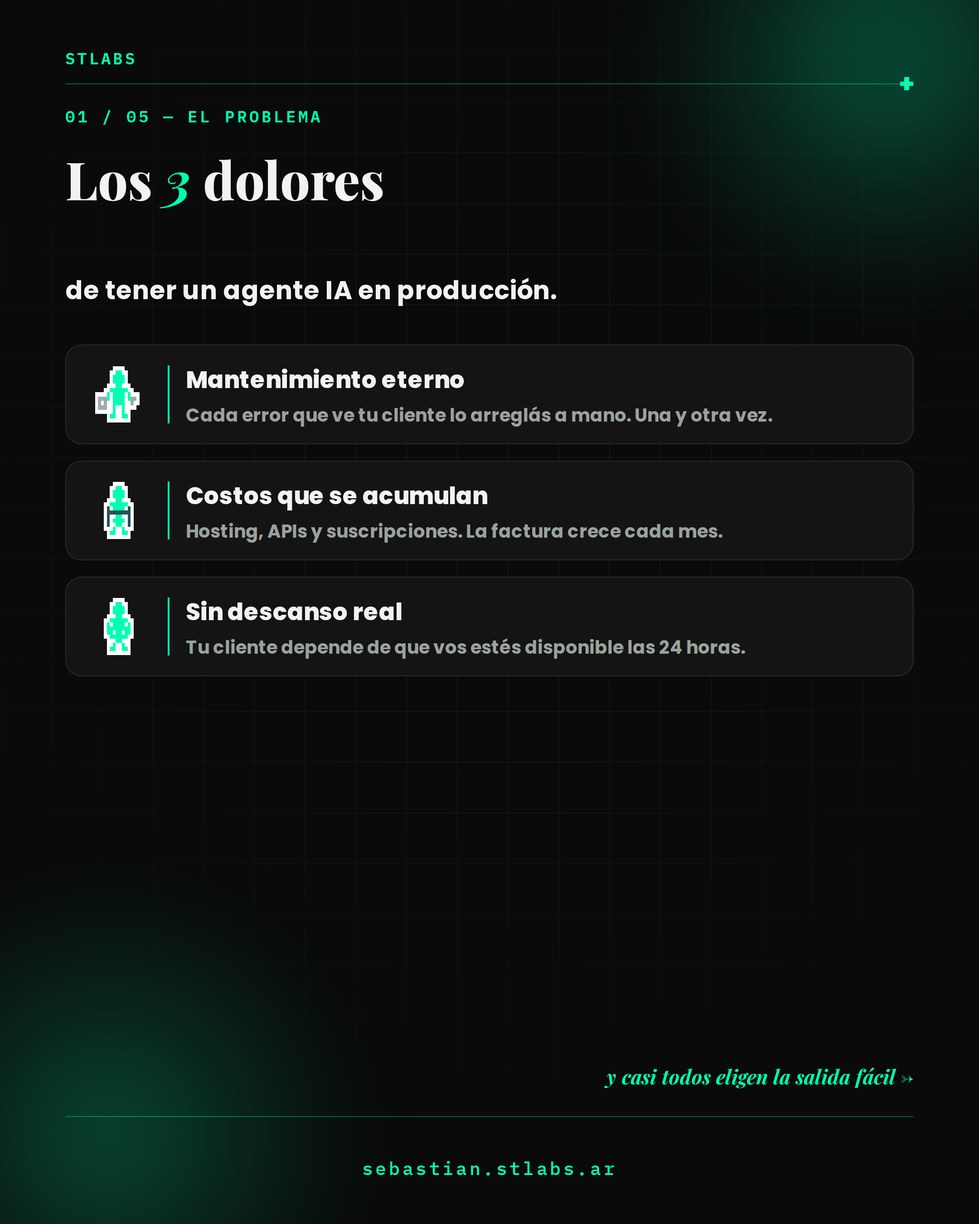
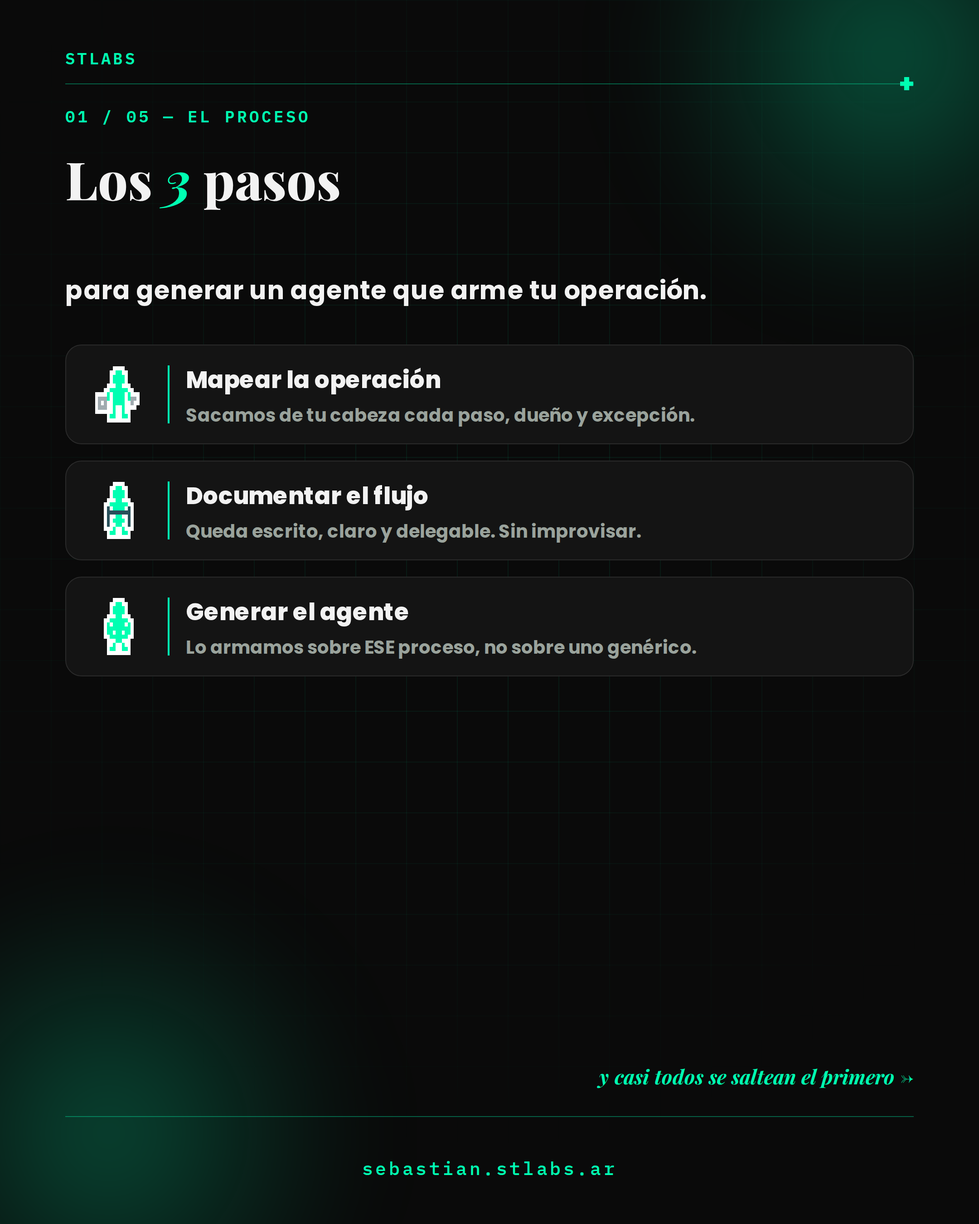
Reescribir copy: proceso de generación y chat nuevo
Los textos ya no repiten la publicación del agente (API, 300 USD, Cloudflare). Ahora cuentan mapear, documentar y generar, con 12 pasos y 9 de 10. El chat de la quinta slide pide armar el agente de seguimiento comercial. Keyword PROCESO.

diff --git a/resultados/2026-08-18-nueva-forma-agentes/carrusel.html b/resultados/2026-08-18-nueva-forma-agentes/carrusel.html
@@ -1,6 +1,6 @@
 <!DOCTYPE html>
 <html lang="es"><head><meta charset="UTF-8">
-<title>La nueva forma de crear agentes IA — STLabs</title>
+<title>Así se genera un agente a medida — STLabs</title>
 <style>
 @font-face { font-family:'Playfair'; src:url('file:///tmp/stlabs-fonts/PlayfairDisplay.ttf') format('truetype'); font-weight:400 900; font-style:normal; }
 @font-face { font-family:'Playfair'; src:url('file:///tmp/stlabs-fonts/PlayfairDisplay-Italic.ttf') format('truetype'); font-weight:400 900; font-style:italic; }
@@ -239,4 +239,4 @@ html, body { background:#000; }
 }
 .send em { font-style:normal; color:#00FFB2; }
 </style></head>
-<body><div class="sheet"><section class="slide" data-id="01"><div class="tex"></div><div class="glow glow-tr"></div><div class="glow glow-bl"></div><div class="hline top"></div><div class="brand">STLabs</div><div class="kicker">01 / 05</div><div class="pill"><i></i>Nadie lo cuenta</div><div class="firma">sebastian.stlabs.ar</div><div class="hero"></div><div class="hero-fade"></div><h1 class="display"><em>La nueva</em><br>forma de crear<br><em>agentes IA.</em></h1><div class="clip dude"><div class="corners"><span class="tl"></span><span class="tr"></span><span class="bl"></span><span class="br"></span></div><img src="file:///workspace/builds/2026-08-18-nueva-forma-agentes/assets/pixel-dude.png" alt=""></div><div class="clip cf"><img class="claude" src="file:///workspace/builds/2026-08-18-nueva-forma-agentes/assets/claude.png" width="96" height="96" alt="" style="width:96px;height:96px;object-fit:contain;"></div><div class="cta-side">esto va a cambiar todo →</div></section><section class="slide" data-id="02"><div class="tex"></div><div class="glow glow-tr"></div><div class="glow glow-bl"></div><div class="hline top"></div><div class="hline bot"></div><div class="brand">STLabs</div><div class="plus">+</div><div class="kicker">01 / 05 — El problema</div><div class="firma">sebastian.stlabs.ar</div><h1 class="h2">Los <em>3</em> dolores</h1><p class="sub">de tener un agente IA en producción.</p><div class="cards"><div class="card"><img src="file:///workspace/builds/2026-08-18-nueva-forma-agentes/assets/pixel-wrench.png" alt=""><div class="div"></div><div><h3>Mantenimiento eterno</h3><p>Cada error que ve tu cliente lo arreglás a mano. Una y otra vez.</p></div></div><div class="card"><img src="file:///workspace/builds/2026-08-18-nueva-forma-agentes/assets/pixel-cost.png" alt=""><div class="div"></div><div><h3>Costos que se acumulan</h3><p>Hosting, APIs y suscripciones. La factura crece cada mes.</p></div></div><div class="card"><img src="file:///workspace/builds/2026-08-18-nueva-forma-agentes/assets/pixel-bell.png" alt=""><div class="div"></div><div><h3>Sin descanso real</h3><p>Tu cliente depende de que vos estés disponible las 24 horas.</p></div></div></div><div class="cta-side">y casi todos eligen la salida fácil →</div></section><section class="slide" data-id="03"><div class="tex"></div><div class="glow glow-tr"></div><div class="glow glow-bl"></div><div class="hline top"></div><div class="hline bot"></div><div class="brand">STLabs</div><div class="plus">+</div><div class="kicker">02 / 05 — La salida fácil</div><div class="firma">sebastian.stlabs.ar</div><h1 class="h2">La salida <em>fácil</em><br>que todos toman</h1><p class="sub">que el 80% toma… y les sale <b style="color:#00FFB2">100 veces más cara.</b></p><div class="bubble">Uso la API de Claude directo, así me ahorro las plataformas</div><div class="tag80"><i></i>el 80%</div><div class="metric"><div class="lab">Anthropic API · 1 agente · 30 días</div><div class="num">300<span>USD</span></div><div class="foot">y eso es UN solo agente</div></div><div class="cta-side">pero hay una forma 100 veces más barata →</div></section><section class="slide" data-id="04"><div class="tex"></div><div class="glow glow-tr"></div><div class="glow glow-bl"></div><div class="hline top"></div><div class="hline bot"></div><div class="brand">STLabs</div><div class="plus">+</div><div class="kicker">03 / 05 — El secreto</div><div class="firma">sebastian.stlabs.ar</div><h1 class="h2">El <em>secreto</em></h1><p class="sub">Claude Code lo construye. Cloudflare lo aloja.</p><div class="eq"><div class="eq-item"><div class="eq-box"><img class="claude" src="file:///workspace/builds/2026-08-18-nueva-forma-agentes/assets/claude.png" width="96" height="96" alt="" style="width:96px;height:96px;object-fit:contain;"></div><strong>Claude Code</strong><em>el ingeniero</em></div><div class="plus-lg">+</div><div class="eq-item"><div class="eq-box"><svg viewBox="0 0 64 40" width="88" height="56"><path fill="#F38020" d="M52 24c1.8-6.2-2.2-12-9-12-1.2 0-2.4.2-3.5.6C38 8.2 33.4 5 28 5c-7.4 0-13.4 5.6-14 12.8C8.6 18.6 4 23.8 4 30c0 .7 0 1.4.1 2h50.6c.7-1.2 1.3-2.6 1.3-4.2 0-1.4-.3-2.6-.8-3.8z"/></svg></div><strong>Cloudflare</strong><em>la casa 24/7</em></div></div><div class="result">= tu agente listo</div><div class="cta-side">seguime para más métodos así →</div></section><section class="slide" data-id="05"><div class="tex"></div><div class="glow glow-tr"></div><div class="glow glow-bl"></div><div class="hline top"></div><div class="hline bot"></div><div class="brand">STLabs</div><div class="plus">+</div><div class="kicker">05 / 05 — Lo mejor</div><div class="firma">sebastian.stlabs.ar</div><h1 class="h2"><em>Lo mejor</em> del método</h1><p class="sub">El cliente reporta un error de madrugada → Claude lo arregla <b style="color:#00FFB2">mientras dormís.</b></p><div class="phone"><div class="ph-head"><img class="claude" src="file:///workspace/builds/2026-08-18-nueva-forma-agentes/assets/claude.png" width="32" height="32" alt="" style="width:32px;height:32px;object-fit:contain;"><div class="nm">Claude</div><div class="hr">03:00</div></div><div class="ph-body"><div class="row me"><div><div class="bubble-u">Se cayó el agente del cliente</div><div class="ts" style="text-align:right">03:00</div></div><img class="av" src="file:///workspace/builds/2026-08-18-nueva-forma-agentes/assets/sebas-avatar.png" alt=""></div><div class="row"><img class="claude" src="file:///workspace/builds/2026-08-18-nueva-forma-agentes/assets/claude.png" width="36" height="36" alt="" style="width:36px;height:36px;object-fit:contain;"><div><div class="bubble-a">Listo, ya lo arreglé. Seguí durmiendo.</div><div class="ts">03:02</div></div></div></div></div><div class="cta-side">seguime para más métodos así →</div></section><section class="slide" data-id="06"><div class="tex"></div><div class="glow glow-tr"></div><div class="glow glow-bl"></div><div class="hline top"></div><div class="hline bot"></div><div class="brand">STLabs</div><div class="kicker"></div><div class="pill"><i></i>A medida</div><div class="firma">sebastian.stlabs.ar</div><h1 class="ask">¿Querés que te arme<br>este <em>proceso</em> a medida?</h1><p class="pre">Diseño el flujo, lo documento y te genero un agente personalizado para tu operación.</p><div class="kwbox"><span>AGENTE</span></div><div class="bottom-row"><div class="avatar-wrap"><div class="corners"><span class="tl"></span><span class="tr"></span><span class="bl"></span><span class="br"></span></div><img src="file:///workspace/builds/2026-08-18-nueva-forma-agentes/assets/sebas-avatar.png" alt=""></div><div class="send">Comentá <em>AGENTE</em> y arrancamos tu generación personalizada <em>→</em></div></div></section></div></body></html>
+<body><div class="sheet"><section class="slide" data-id="01"><div class="tex"></div><div class="glow glow-tr"></div><div class="glow glow-bl"></div><div class="hline top"></div><div class="brand">STLabs</div><div class="kicker">01 / 05</div><div class="pill"><i></i>A medida</div><div class="firma">sebastian.stlabs.ar</div><div class="hero"></div><div class="hero-fade"></div><h1 class="display"><em>Así se genera</em><br>un agente<br><em>a medida.</em></h1><div class="clip dude"><div class="corners"><span class="tl"></span><span class="tr"></span><span class="bl"></span><span class="br"></span></div><img src="file:///workspace/builds/2026-08-18-nueva-forma-agentes/assets/pixel-dude.png" alt=""></div><div class="clip cf"><img class="claude" src="file:///workspace/builds/2026-08-18-nueva-forma-agentes/assets/claude.png" width="96" height="96" alt="" style="width:96px;height:96px;object-fit:contain;"></div><div class="cta-side">primero el proceso →</div></section><section class="slide" data-id="02"><div class="tex"></div><div class="glow glow-tr"></div><div class="glow glow-bl"></div><div class="hline top"></div><div class="hline bot"></div><div class="brand">STLabs</div><div class="plus">+</div><div class="kicker">01 / 05 — El proceso</div><div class="firma">sebastian.stlabs.ar</div><h1 class="h2">Los <em>3</em> pasos</h1><p class="sub">para generar un agente que arme tu operación.</p><div class="cards"><div class="card"><img src="file:///workspace/builds/2026-08-18-nueva-forma-agentes/assets/pixel-wrench.png" alt=""><div class="div"></div><div><h3>Mapear la operación</h3><p>Sacamos de tu cabeza cada paso, dueño y excepción.</p></div></div><div class="card"><img src="file:///workspace/builds/2026-08-18-nueva-forma-agentes/assets/pixel-cost.png" alt=""><div class="div"></div><div><h3>Documentar el flujo</h3><p>Queda escrito, claro y delegable. Sin improvisar.</p></div></div><div class="card"><img src="file:///workspace/builds/2026-08-18-nueva-forma-agentes/assets/pixel-bell.png" alt=""><div class="div"></div><div><h3>Generar el agente</h3><p>Lo armamos sobre ESE proceso, no sobre uno genérico.</p></div></div></div><div class="cta-side">y casi todos se saltean el primero →</div></section><section class="slide" data-id="03"><div class="tex"></div><div class="glow glow-tr"></div><div class="glow glow-bl"></div><div class="hline top"></div><div class="hline bot"></div><div class="brand">STLabs</div><div class="plus">+</div><div class="kicker">02 / 05 — Lo que se saltea</div><div class="firma">sebastian.stlabs.ar</div><h1 class="h2">Lo que casi<br><em>nadie</em> hace</h1><p class="sub">arrancan el agente sin mapa… y después <b style="color:#00FFB2">no escala.</b></p><div class="bubble">Poné un agente y que resuelva. El proceso lo vemos después.</div><div class="tag80"><i></i>9 de 10</div><div class="metric"><div class="lab">Primera sesión de mapeo · 1 operación</div><div class="num">12<span>pasos</span></div><div class="foot">y de ese mapa nace el agente</div></div><div class="cta-side">el método correcto es al revés →</div></section><section class="slide" data-id="04"><div class="tex"></div><div class="glow glow-tr"></div><div class="glow glow-bl"></div><div class="hline top"></div><div class="hline bot"></div><div class="brand">STLabs</div><div class="plus">+</div><div class="kicker">03 / 05 — El método</div><div class="firma">sebastian.stlabs.ar</div><h1 class="h2">El <em>método</em></h1><p class="sub">Primero el mapa. Después se genera el agente.</p><div class="eq"><div class="eq-item"><div class="eq-box"><svg viewBox="0 0 64 64" width="88" height="88"><rect x="8" y="8" width="48" height="14" rx="4" fill="none" stroke="#00FFB2" stroke-width="3"/><rect x="8" y="28" width="30" height="14" rx="4" fill="none" stroke="#00FFB2" stroke-width="3"/><rect x="8" y="48" width="40" height="14" rx="4" fill="none" stroke="#00FFB2" stroke-width="3"/><path d="M32 22v6M23 42v6" fill="none" stroke="#00FFB2" stroke-width="3"/></svg></div><strong>El mapa</strong><em>tu operación</em></div><div class="plus-lg">+</div><div class="eq-item"><div class="eq-box"><img class="claude" src="file:///workspace/builds/2026-08-18-nueva-forma-agentes/assets/claude.png" width="96" height="96" alt="" style="width:96px;height:96px;object-fit:contain;"></div><strong>Claude</strong><em>lo genera</em></div></div><div class="result">= tu agente a medida</div><div class="cta-side">así se ve cuando lo pedís →</div></section><section class="slide" data-id="05"><div class="tex"></div><div class="glow glow-tr"></div><div class="glow glow-bl"></div><div class="hline top"></div><div class="hline bot"></div><div class="brand">STLabs</div><div class="plus">+</div><div class="kicker">04 / 05 — En vivo</div><div class="firma">sebastian.stlabs.ar</div><h1 class="h2"><em>Así</em> se genera</h1><p class="sub">Pedís el proceso. El agente queda mapeado y <b style="color:#00FFB2">listo para ejecutar.</b></p><div class="phone"><div class="ph-head"><img class="claude" src="file:///workspace/builds/2026-08-18-nueva-forma-agentes/assets/claude.png" width="32" height="32" alt="" style="width:32px;height:32px;object-fit:contain;"><div class="nm">Claude</div><div class="hr">11:20</div></div><div class="ph-body"><div class="row me"><div><div class="bubble-u">Armá el agente con el seguimiento comercial.</div><div class="ts" style="text-align:right">11:20</div></div><img class="av" src="file:///workspace/builds/2026-08-18-nueva-forma-agentes/assets/sebas-avatar.png" alt=""></div><div class="row"><img class="claude" src="file:///workspace/builds/2026-08-18-nueva-forma-agentes/assets/claude.png" width="36" height="36" alt="" style="width:36px;height:36px;object-fit:contain;"><div><div class="bubble-a">Listo. 12 pasos documentados y el agente ya corre el flujo.</div><div class="ts">11:24</div></div></div></div></div><div class="cta-side">esto lo hacemos sobre tu operación →</div></section><section class="slide" data-id="06"><div class="tex"></div><div class="glow glow-tr"></div><div class="glow glow-bl"></div><div class="hline top"></div><div class="hline bot"></div><div class="brand">STLabs</div><div class="kicker"></div><div class="pill"><i></i>A medida</div><div class="firma">sebastian.stlabs.ar</div><h1 class="ask">¿Querés que te genere<br>el <em>agente</em> a medida?</h1><p class="pre">Mapeo tu operación, documento el flujo y te dejo el agente personalizado listo.</p><div class="kwbox"><span>PROCESO</span></div><div class="bottom-row"><div class="avatar-wrap"><div class="corners"><span class="tl"></span><span class="tr"></span><span class="bl"></span><span class="br"></span></div><img src="file:///workspace/builds/2026-08-18-nueva-forma-agentes/assets/sebas-avatar.png" alt=""></div><div class="send">Comentá <em>PROCESO</em> y arrancamos la generación <em>→</em></div></div></section></div></body></html>

diff --git a/builds/2026-08-18-nueva-forma-agentes/generate.py b/builds/2026-08-18-nueva-forma-agentes/generate.py
@@ -283,16 +283,15 @@ def chrome(kicker: str, pill: str | None = None, plus: bool = True, bot_line: bo
     )
 
 
-def cf_icon() -> str:
+def mapa_icon() -> str:
     return (
-        '<svg viewBox="0 0 64 40" width="88" height="56">'
-        '<path fill="#F38020" d="M52 24c1.8-6.2-2.2-12-9-12-1.2 0-2.4.2-3.5.6C38 8.2 33.4 5 28 5c-7.4 0-13.4 5.6-14 12.8C8.6 18.6 4 23.8 4 30c0 .7 0 1.4.1 2h50.6c.7-1.2 1.3-2.6 1.3-4.2 0-1.4-.3-2.6-.8-3.8z"/>'
+        '<svg viewBox="0 0 64 64" width="88" height="88">'
+        '<rect x="8" y="8" width="48" height="14" rx="4" fill="none" stroke="#00FFB2" stroke-width="3"/>'
+        '<rect x="8" y="28" width="30" height="14" rx="4" fill="none" stroke="#00FFB2" stroke-width="3"/>'
+        '<rect x="8" y="48" width="40" height="14" rx="4" fill="none" stroke="#00FFB2" stroke-width="3"/>'
+        '<path d="M32 22v6M23 42v6" fill="none" stroke="#00FFB2" stroke-width="3"/>'
         '</svg>'
     )
-
-
-def cf_svg() -> str:
-    return cf_icon() + '<div class="cf-mark">CLOUDFLARE</div>'
 
 
 def claude_img(size: int = 88) -> str:
@@ -307,12 +306,12 @@ def slide_01() -> str:
     dude = uri(A / "pixel-dude.png")
     return (
         '<section class="slide" data-id="01">'
-        + chrome("01 / 05", pill="Nadie lo cuenta", plus=False, bot_line=False)
+        + chrome("01 / 05", pill="A medida", plus=False, bot_line=False)
         + '<div class="hero"></div><div class="hero-fade"></div>'
-        + '<h1 class="display"><em>La nueva</em><br>forma de crear<br><em>agentes IA.</em></h1>'
+        + '<h1 class="display"><em>Así se genera</em><br>un agente<br><em>a medida.</em></h1>'
         + f'<div class="clip dude"><div class="corners"><span class="tl"></span><span class="tr"></span><span class="bl"></span><span class="br"></span></div><img src="{dude}" alt=""></div>'
         + f'<div class="clip cf">{claude_img(96)}</div>'
-        + '<div class="cta-side">esto va a cambiar todo →</div>'
+        + '<div class="cta-side">primero el proceso →</div>'
         + "</section>"
     )
 
@@ -320,9 +319,9 @@ def slide_01() -> str:
 def slide_02() -> str:
     wch, cost, bell = uri(A / "pixel-wrench.png"), uri(A / "pixel-cost.png"), uri(A / "pixel-bell.png")
     cards = [
-        (wch, "Mantenimiento eterno", "Cada error que ve tu cliente lo arreglás a mano. Una y otra vez."),
-        (cost, "Costos que se acumulan", "Hosting, APIs y suscripciones. La factura crece cada mes."),
-        (bell, "Sin descanso real", "Tu cliente depende de que vos estés disponible las 24 horas."),
+        (wch, "Mapear la operación", "Sacamos de tu cabeza cada paso, dueño y excepción."),
+        (cost, "Documentar el flujo", "Queda escrito, claro y delegable. Sin improvisar."),
+        (bell, "Generar el agente", "Lo armamos sobre ESE proceso, no sobre uno genérico."),
     ]
     html_cards = "".join(
         f'<div class="card"><img src="{img}" alt=""><div class="div"></div><div><h3>{t}</h3><p>{d}</p></div></div>'
@@ -330,11 +329,11 @@ def slide_02() -> str:
     )
     return (
         '<section class="slide" data-id="02">'
-        + chrome("01 / 05 — El problema")
-        + '<h1 class="h2">Los <em>3</em> dolores</h1>'
-        + '<p class="sub">de tener un agente IA en producción.</p>'
+        + chrome("01 / 05 — El proceso")
+        + '<h1 class="h2">Los <em>3</em> pasos</h1>'
+        + '<p class="sub">para generar un agente que arme tu operación.</p>'
         + f'<div class="cards">{html_cards}</div>'
-        + '<div class="cta-side">y casi todos eligen la salida fácil →</div>'
+        + '<div class="cta-side">y casi todos se saltean el primero →</div>'
         + "</section>"
     )
 
@@ -342,15 +341,15 @@ def slide_02() -> str:
 def slide_03() -> str:
     return (
         '<section class="slide" data-id="03">'
-        + chrome("02 / 05 — La salida fácil")
-        + '<h1 class="h2">La salida <em>fácil</em><br>que todos toman</h1>'
-        + '<p class="sub">que el 80% toma… y les sale <b style="color:#00FFB2">100 veces más cara.</b></p>'
-        + '<div class="bubble">Uso la API de Claude directo, así me ahorro las plataformas</div>'
-        + '<div class="tag80"><i></i>el 80%</div>'
-        + '<div class="metric"><div class="lab">Anthropic API · 1 agente · 30 días</div>'
-        '<div class="num">300<span>USD</span></div>'
-        '<div class="foot">y eso es UN solo agente</div></div>'
-        + '<div class="cta-side">pero hay una forma 100 veces más barata →</div>'
+        + chrome("02 / 05 — Lo que se saltea")
+        + '<h1 class="h2">Lo que casi<br><em>nadie</em> hace</h1>'
+        + '<p class="sub">arrancan el agente sin mapa… y después <b style="color:#00FFB2">no escala.</b></p>'
+        + '<div class="bubble">Poné un agente y que resuelva. El proceso lo vemos después.</div>'
+        + '<div class="tag80"><i></i>9 de 10</div>'
+        + '<div class="metric"><div class="lab">Primera sesión de mapeo · 1 operación</div>'
+        '<div class="num">12<span>pasos</span></div>'
+        '<div class="foot">y de ese mapa nace el agente</div></div>'
+        + '<div class="cta-side">el método correcto es al revés →</div>'
         + "</section>"
     )
 
@@ -358,16 +357,16 @@ def slide_03() -> str:
 def slide_04() -> str:
     return (
         '<section class="slide" data-id="04">'
-        + chrome("03 / 05 — El secreto")
-        + '<h1 class="h2">El <em>secreto</em></h1>'
-        + '<p class="sub">Claude Code lo construye. Cloudflare lo aloja.</p>'
+        + chrome("03 / 05 — El método")
+        + '<h1 class="h2">El <em>método</em></h1>'
+        + '<p class="sub">Primero el mapa. Después se genera el agente.</p>'
         + '<div class="eq">'
-        f'<div class="eq-item"><div class="eq-box">{claude_img(96)}</div><strong>Claude Code</strong><em>el ingeniero</em></div>'
+        f'<div class="eq-item"><div class="eq-box">{mapa_icon()}</div><strong>El mapa</strong><em>tu operación</em></div>'
         '<div class="plus-lg">+</div>'
-        f'<div class="eq-item"><div class="eq-box">{cf_icon()}</div><strong>Cloudflare</strong><em>la casa 24/7</em></div>'
+        f'<div class="eq-item"><div class="eq-box">{claude_img(96)}</div><strong>Claude</strong><em>lo genera</em></div>'
         "</div>"
-        + '<div class="result">= tu agente listo</div>'
-        + '<div class="cta-side">seguime para más métodos así →</div>'
+        + '<div class="result">= tu agente a medida</div>'
+        + '<div class="cta-side">así se ve cuando lo pedís →</div>'
         + "</section>"
     )
 
@@ -376,16 +375,16 @@ def slide_05() -> str:
     av = uri(A / "sebas-avatar.png")
     return (
         '<section class="slide" data-id="05">'
-        + chrome("05 / 05 — Lo mejor")
-        + '<h1 class="h2"><em>Lo mejor</em> del método</h1>'
-        + '<p class="sub">El cliente reporta un error de madrugada → Claude lo arregla <b style="color:#00FFB2">mientras dormís.</b></p>'
+        + chrome("04 / 05 — En vivo")
+        + '<h1 class="h2"><em>Así</em> se genera</h1>'
+        + '<p class="sub">Pedís el proceso. El agente queda mapeado y <b style="color:#00FFB2">listo para ejecutar.</b></p>'
         + '<div class="phone"><div class="ph-head">'
-        f'{claude_img(32)}<div class="nm">Claude</div><div class="hr">03:00</div></div>'
+        f'{claude_img(32)}<div class="nm">Claude</div><div class="hr">11:20</div></div>'
         '<div class="ph-body">'
-        f'<div class="row me"><div><div class="bubble-u">Se cayó el agente del cliente</div><div class="ts" style="text-align:right">03:00</div></div><img class="av" src="{av}" alt=""></div>'
-        f'<div class="row">{claude_img(36)}<div><div class="bubble-a">Listo, ya lo arreglé. Seguí durmiendo.</div><div class="ts">03:02</div></div></div>'
+        f'<div class="row me"><div><div class="bubble-u">Armá el agente con el seguimiento comercial.</div><div class="ts" style="text-align:right">11:20</div></div><img class="av" src="{av}" alt=""></div>'
+        f'<div class="row">{claude_img(36)}<div><div class="bubble-a">Listo. 12 pasos documentados y el agente ya corre el flujo.</div><div class="ts">11:24</div></div></div>'
         "</div></div>"
-        + '<div class="cta-side">seguime para más métodos así →</div>'
+        + '<div class="cta-side">esto lo hacemos sobre tu operación →</div>'
         + "</section>"
     )
 
@@ -395,11 +394,11 @@ def slide_06() -> str:
     return (
         '<section class="slide" data-id="06">'
         + chrome("", pill="A medida", plus=False)
-        + '<h1 class="ask">¿Querés que te arme<br>este <em>proceso</em> a medida?</h1>'
-        + '<p class="pre">Diseño el flujo, lo documento y te genero un agente personalizado para tu operación.</p>'
-        + '<div class="kwbox"><span>AGENTE</span></div>'
+        + '<h1 class="ask">¿Querés que te genere<br>el <em>agente</em> a medida?</h1>'
+        + '<p class="pre">Mapeo tu operación, documento el flujo y te dejo el agente personalizado listo.</p>'
+        + '<div class="kwbox"><span>PROCESO</span></div>'
         + f'<div class="bottom-row"><div class="avatar-wrap"><div class="corners"><span class="tl"></span><span class="tr"></span><span class="bl"></span><span class="br"></span></div><img src="{av}" alt=""></div>'
-        '<div class="send">Comentá <em>AGENTE</em> y arrancamos tu generación personalizada <em>→</em></div></div>'
+        '<div class="send">Comentá <em>PROCESO</em> y arrancamos la generación <em>→</em></div></div>'
         + "</section>"
     )
 
@@ -408,22 +407,22 @@ def main():
     slides = [slide_01(), slide_02(), slide_03(), slide_04(), slide_05(), slide_06()]
     html = (
         "<!DOCTYPE html>\n<html lang=\"es\"><head><meta charset=\"UTF-8\">\n"
-        "<title>La nueva forma de crear agentes IA — STLabs</title>\n"
+        "<title>Así se genera un agente a medida — STLabs</title>\n"
         f"<style>{build_css()}</style></head>\n"
         f"<body><div class=\"sheet\">{''.join(slides)}</div></body></html>"
     )
     (B / "carrusel.html").write_text(html, encoding="utf-8")
     meta = {
-        "titulo": "La nueva forma de crear agentes IA",
+        "titulo": "Así se genera un agente a medida",
         "slides": 6,
         "fondo": "reticula_fina",
         "familia_visual": "dossier_editorial",
         "origen": "clonado",
-        "keyword_portada": "AGENTE",
+        "keyword_portada": "PROCESO",
         "modo": "negro",
         "id": "2026-08-18-nueva-forma-agentes",
         "fecha": "2026-08-18",
-        "notas": "Portada full-bleed sin línea. Hombrecito recortado a verde. Logo Claude estrella naranja. CTA vende el proceso de generación a medida.",
+        "notas": "Copy nuevo: proceso de generación (mapear, documentar, generar). Datos 12 pasos / 9 de 10. Chat distinto. Keyword PROCESO.",
     }
     (B / "index.json").write_text(json.dumps(meta, ensure_ascii=False, indent=2), encoding="utf-8")
     print(f"Wrote {len(slides)} slides")

diff --git a/resultados/2026-08-18-nueva-forma-agentes/generate.py b/resultados/2026-08-18-nueva-forma-agentes/generate.py
@@ -283,16 +283,15 @@ def chrome(kicker: str, pill: str | None = None, plus: bool = True, bot_line: bo
     )
 
 
-def cf_icon() -> str:
+def mapa_icon() -> str:
     return (
-        '<svg viewBox="0 0 64 40" width="88" height="56">'
-        '<path fill="#F38020" d="M52 24c1.8-6.2-2.2-12-9-12-1.2 0-2.4.2-3.5.6C38 8.2 33.4 5 28 5c-7.4 0-13.4 5.6-14 12.8C8.6 18.6 4 23.8 4 30c0 .7 0 1.4.1 2h50.6c.7-1.2 1.3-2.6 1.3-4.2 0-1.4-.3-2.6-.8-3.8z"/>'
+        '<svg viewBox="0 0 64 64" width="88" height="88">'
+        '<rect x="8" y="8" width="48" height="14" rx="4" fill="none" stroke="#00FFB2" stroke-width="3"/>'
+        '<rect x="8" y="28" width="30" height="14" rx="4" fill="none" stroke="#00FFB2" stroke-width="3"/>'
+        '<rect x="8" y="48" width="40" height="14" rx="4" fill="none" stroke="#00FFB2" stroke-width="3"/>'
+        '<path d="M32 22v6M23 42v6" fill="none" stroke="#00FFB2" stroke-width="3"/>'
         '</svg>'
     )
-
-
-def cf_svg() -> str:
-    return cf_icon() + '<div class="cf-mark">CLOUDFLARE</div>'
 
 
 def claude_img(size: int = 88) -> str:
@@ -307,12 +306,12 @@ def slide_01() -> str:
     dude = uri(A / "pixel-dude.png")
     return (
         '<section class="slide" data-id="01">'
-        + chrome("01 / 05", pill="Nadie lo cuenta", plus=False, bot_line=False)
+        + chrome("01 / 05", pill="A medida", plus=False, bot_line=False)
         + '<div class="hero"></div><div class="hero-fade"></div>'
-        + '<h1 class="display"><em>La nueva</em><br>forma de crear<br><em>agentes IA.</em></h1>'
+        + '<h1 class="display"><em>Así se genera</em><br>un agente<br><em>a medida.</em></h1>'
         + f'<div class="clip dude"><div class="corners"><span class="tl"></span><span class="tr"></span><span class="bl"></span><span class="br"></span></div><img src="{dude}" alt=""></div>'
         + f'<div class="clip cf">{claude_img(96)}</div>'
-        + '<div class="cta-side">esto va a cambiar todo →</div>'
+        + '<div class="cta-side">primero el proceso →</div>'
         + "</section>"
     )
 
@@ -320,9 +319,9 @@ def slide_01() -> str:
 def slide_02() -> str:
     wch, cost, bell = uri(A / "pixel-wrench.png"), uri(A / "pixel-cost.png"), uri(A / "pixel-bell.png")
     cards = [
-        (wch, "Mantenimiento eterno", "Cada error que ve tu cliente lo arreglás a mano. Una y otra vez."),
-        (cost, "Costos que se acumulan", "Hosting, APIs y suscripciones. La factura crece cada mes."),
-        (bell, "Sin descanso real", "Tu cliente depende de que vos estés disponible las 24 horas."),
+        (wch, "Mapear la operación", "Sacamos de tu cabeza cada paso, dueño y excepción."),
+        (cost, "Documentar el flujo", "Queda escrito, claro y delegable. Sin improvisar."),
+        (bell, "Generar el agente", "Lo armamos sobre ESE proceso, no sobre uno genérico."),
     ]
     html_cards = "".join(
         f'<div class="card"><img src="{img}" alt=""><div class="div"></div><div><h3>{t}</h3><p>{d}</p></div></div>'
@@ -330,11 +329,11 @@ def slide_02() -> str:
     )
     return (
         '<section class="slide" data-id="02">'
-        + chrome("01 / 05 — El problema")
-        + '<h1 class="h2">Los <em>3</em> dolores</h1>'
-        + '<p class="sub">de tener un agente IA en producción.</p>'
+        + chrome("01 / 05 — El proceso")
+        + '<h1 class="h2">Los <em>3</em> pasos</h1>'
+        + '<p class="sub">para generar un agente que arme tu operación.</p>'
         + f'<div class="cards">{html_cards}</div>'
-        + '<div class="cta-side">y casi todos eligen la salida fácil →</div>'
+        + '<div class="cta-side">y casi todos se saltean el primero →</div>'
         + "</section>"
     )
 
@@ -342,15 +341,15 @@ def slide_02() -> str:
 def slide_03() -> str:
     return (
         '<section class="slide" data-id="03">'
-        + chrome("02 / 05 — La salida fácil")
-        + '<h1 class="h2">La salida <em>fácil</em><br>que todos toman</h1>'
-        + '<p class="sub">que el 80% toma… y les sale <b style="color:#00FFB2">100 veces más cara.</b></p>'
-        + '<div class="bubble">Uso la API de Claude directo, así me ahorro las plataformas</div>'
-        + '<div class="tag80"><i></i>el 80%</div>'
-        + '<div class="metric"><div class="lab">Anthropic API · 1 agente · 30 días</div>'
-        '<div class="num">300<span>USD</span></div>'
-        '<div class="foot">y eso es UN solo agente</div></div>'
-        + '<div class="cta-side">pero hay una forma 100 veces más barata →</div>'
+        + chrome("02 / 05 — Lo que se saltea")
+        + '<h1 class="h2">Lo que casi<br><em>nadie</em> hace</h1>'
+        + '<p class="sub">arrancan el agente sin mapa… y después <b style="color:#00FFB2">no escala.</b></p>'
+        + '<div class="bubble">Poné un agente y que resuelva. El proceso lo vemos después.</div>'
+        + '<div class="tag80"><i></i>9 de 10</div>'
+        + '<div class="metric"><div class="lab">Primera sesión de mapeo · 1 operación</div>'
+        '<div class="num">12<span>pasos</span></div>'
+        '<div class="foot">y de ese mapa nace el agente</div></div>'
+        + '<div class="cta-side">el método correcto es al revés →</div>'
         + "</section>"
     )
 
@@ -358,16 +357,16 @@ def slide_03() -> str:
 def slide_04() -> str:
     return (
         '<section class="slide" data-id="04">'
-        + chrome("03 / 05 — El secreto")
-        + '<h1 class="h2">El <em>secreto</em></h1>'
-        + '<p class="sub">Claude Code lo construye. Cloudflare lo aloja.</p>'
+        + chrome("03 / 05 — El método")
+        + '<h1 class="h2">El <em>método</em></h1>'
+        + '<p class="sub">Primero el mapa. Después se genera el agente.</p>'
         + '<div class="eq">'
-        f'<div class="eq-item"><div class="eq-box">{claude_img(96)}</div><strong>Claude Code</strong><em>el ingeniero</em></div>'
+        f'<div class="eq-item"><div class="eq-box">{mapa_icon()}</div><strong>El mapa</strong><em>tu operación</em></div>'
         '<div class="plus-lg">+</div>'
-        f'<div class="eq-item"><div class="eq-box">{cf_icon()}</div><strong>Cloudflare</strong><em>la casa 24/7</em></div>'
+        f'<div class="eq-item"><div class="eq-box">{claude_img(96)}</div><strong>Claude</strong><em>lo genera</em></div>'
         "</div>"
-        + '<div class="result">= tu agente listo</div>'
-        + '<div class="cta-side">seguime para más métodos así →</div>'
+        + '<div class="result">= tu agente a medida</div>'
+        + '<div class="cta-side">así se ve cuando lo pedís →</div>'
         + "</section>"
     )
 
@@ -376,16 +375,16 @@ def slide_05() -> str:
     av = uri(A / "sebas-avatar.png")
     return (
         '<section class="slide" data-id="05">'
-        + chrome("05 / 05 — Lo mejor")
-        + '<h1 class="h2"><em>Lo mejor</em> del método</h1>'
-        + '<p class="sub">El cliente reporta un error de madrugada → Claude lo arregla <b style="color:#00FFB2">mientras dormís.</b></p>'
+        + chrome("04 / 05 — En vivo")
+        + '<h1 class="h2"><em>Así</em> se genera</h1>'
+        + '<p class="sub">Pedís el proceso. El agente queda mapeado y <b style="color:#00FFB2">listo para ejecutar.</b></p>'
         + '<div class="phone"><div class="ph-head">'
-        f'{claude_img(32)}<div class="nm">Claude</div><div class="hr">03:00</div></div>'
+        f'{claude_img(32)}<div class="nm">Claude</div><div class="hr">11:20</div></div>'
         '<div class="ph-body">'
-        f'<div class="row me"><div><div class="bubble-u">Se cayó el agente del cliente</div><div class="ts" style="text-align:right">03:00</div></div><img class="av" src="{av}" alt=""></div>'
-        f'<div class="row">{claude_img(36)}<div><div class="bubble-a">Listo, ya lo arreglé. Seguí durmiendo.</div><div class="ts">03:02</div></div></div>'
+        f'<div class="row me"><div><div class="bubble-u">Armá el agente con el seguimiento comercial.</div><div class="ts" style="text-align:right">11:20</div></div><img class="av" src="{av}" alt=""></div>'
+        f'<div class="row">{claude_img(36)}<div><div class="bubble-a">Listo. 12 pasos documentados y el agente ya corre el flujo.</div><div class="ts">11:24</div></div></div>'
         "</div></div>"
-        + '<div class="cta-side">seguime para más métodos así →</div>'
+        + '<div class="cta-side">esto lo hacemos sobre tu operación →</div>'
         + "</section>"
     )
 
@@ -395,11 +394,11 @@ def slide_06() -> str:
     return (
         '<section class="slide" data-id="06">'
         + chrome("", pill="A medida", plus=False)
-        + '<h1 class="ask">¿Querés que te arme<br>este <em>proceso</em> a medida?</h1>'
-        + '<p class="pre">Diseño el flujo, lo documento y te genero un agente personalizado para tu operación.</p>'
-        + '<div class="kwbox"><span>AGENTE</span></div>'
+        + '<h1 class="ask">¿Querés que te genere<br>el <em>agente</em> a medida?</h1>'
+        + '<p class="pre">Mapeo tu operación, documento el flujo y te dejo el agente personalizado listo.</p>'
+        + '<div class="kwbox"><span>PROCESO</span></div>'
         + f'<div class="bottom-row"><div class="avatar-wrap"><div class="corners"><span class="tl"></span><span class="tr"></span><span class="bl"></span><span class="br"></span></div><img src="{av}" alt=""></div>'
-        '<div class="send">Comentá <em>AGENTE</em> y arrancamos tu generación personalizada <em>→</em></div></div>'
+        '<div class="send">Comentá <em>PROCESO</em> y arrancamos la generación <em>→</em></div></div>'
         + "</section>"
     )
 
@@ -408,22 +407,22 @@ def main():
     slides = [slide_01(), slide_02(), slide_03(), slide_04(), slide_05(), slide_06()]
     html = (
         "<!DOCTYPE html>\n<html lang=\"es\"><head><meta charset=\"UTF-8\">\n"
-        "<title>La nueva forma de crear agentes IA — STLabs</title>\n"
+        "<title>Así se genera un agente a medida — STLabs</title>\n"
         f"<style>{build_css()}</style></head>\n"
         f"<body><div class=\"sheet\">{''.join(slides)}</div></body></html>"
     )
     (B / "carrusel.html").write_text(html, encoding="utf-8")
     meta = {
-        "titulo": "La nueva forma de crear agentes IA",
+        "titulo": "Así se genera un agente a medida",
         "slides": 6,
         "fondo": "reticula_fina",
         "familia_visual": "dossier_editorial",
         "origen": "clonado",
-        "keyword_portada": "AGENTE",
+        "keyword_portada": "PROCESO",
         "modo": "negro",
         "id": "2026-08-18-nueva-forma-agentes",
         "fecha": "2026-08-18",
-        "notas": "Portada full-bleed sin línea. Hombrecito recortado a verde. Logo Claude estrella naranja. CTA vende el proceso de generación a medida.",
+        "notas": "Copy nuevo: proceso de generación (mapear, documentar, generar). Datos 12 pasos / 9 de 10. Chat distinto. Keyword PROCESO.",
     }
     (B / "index.json").write_text(json.dumps(meta, ensure_ascii=False, indent=2), encoding="utf-8")
     print(f"Wrote {len(slides)} slides")
